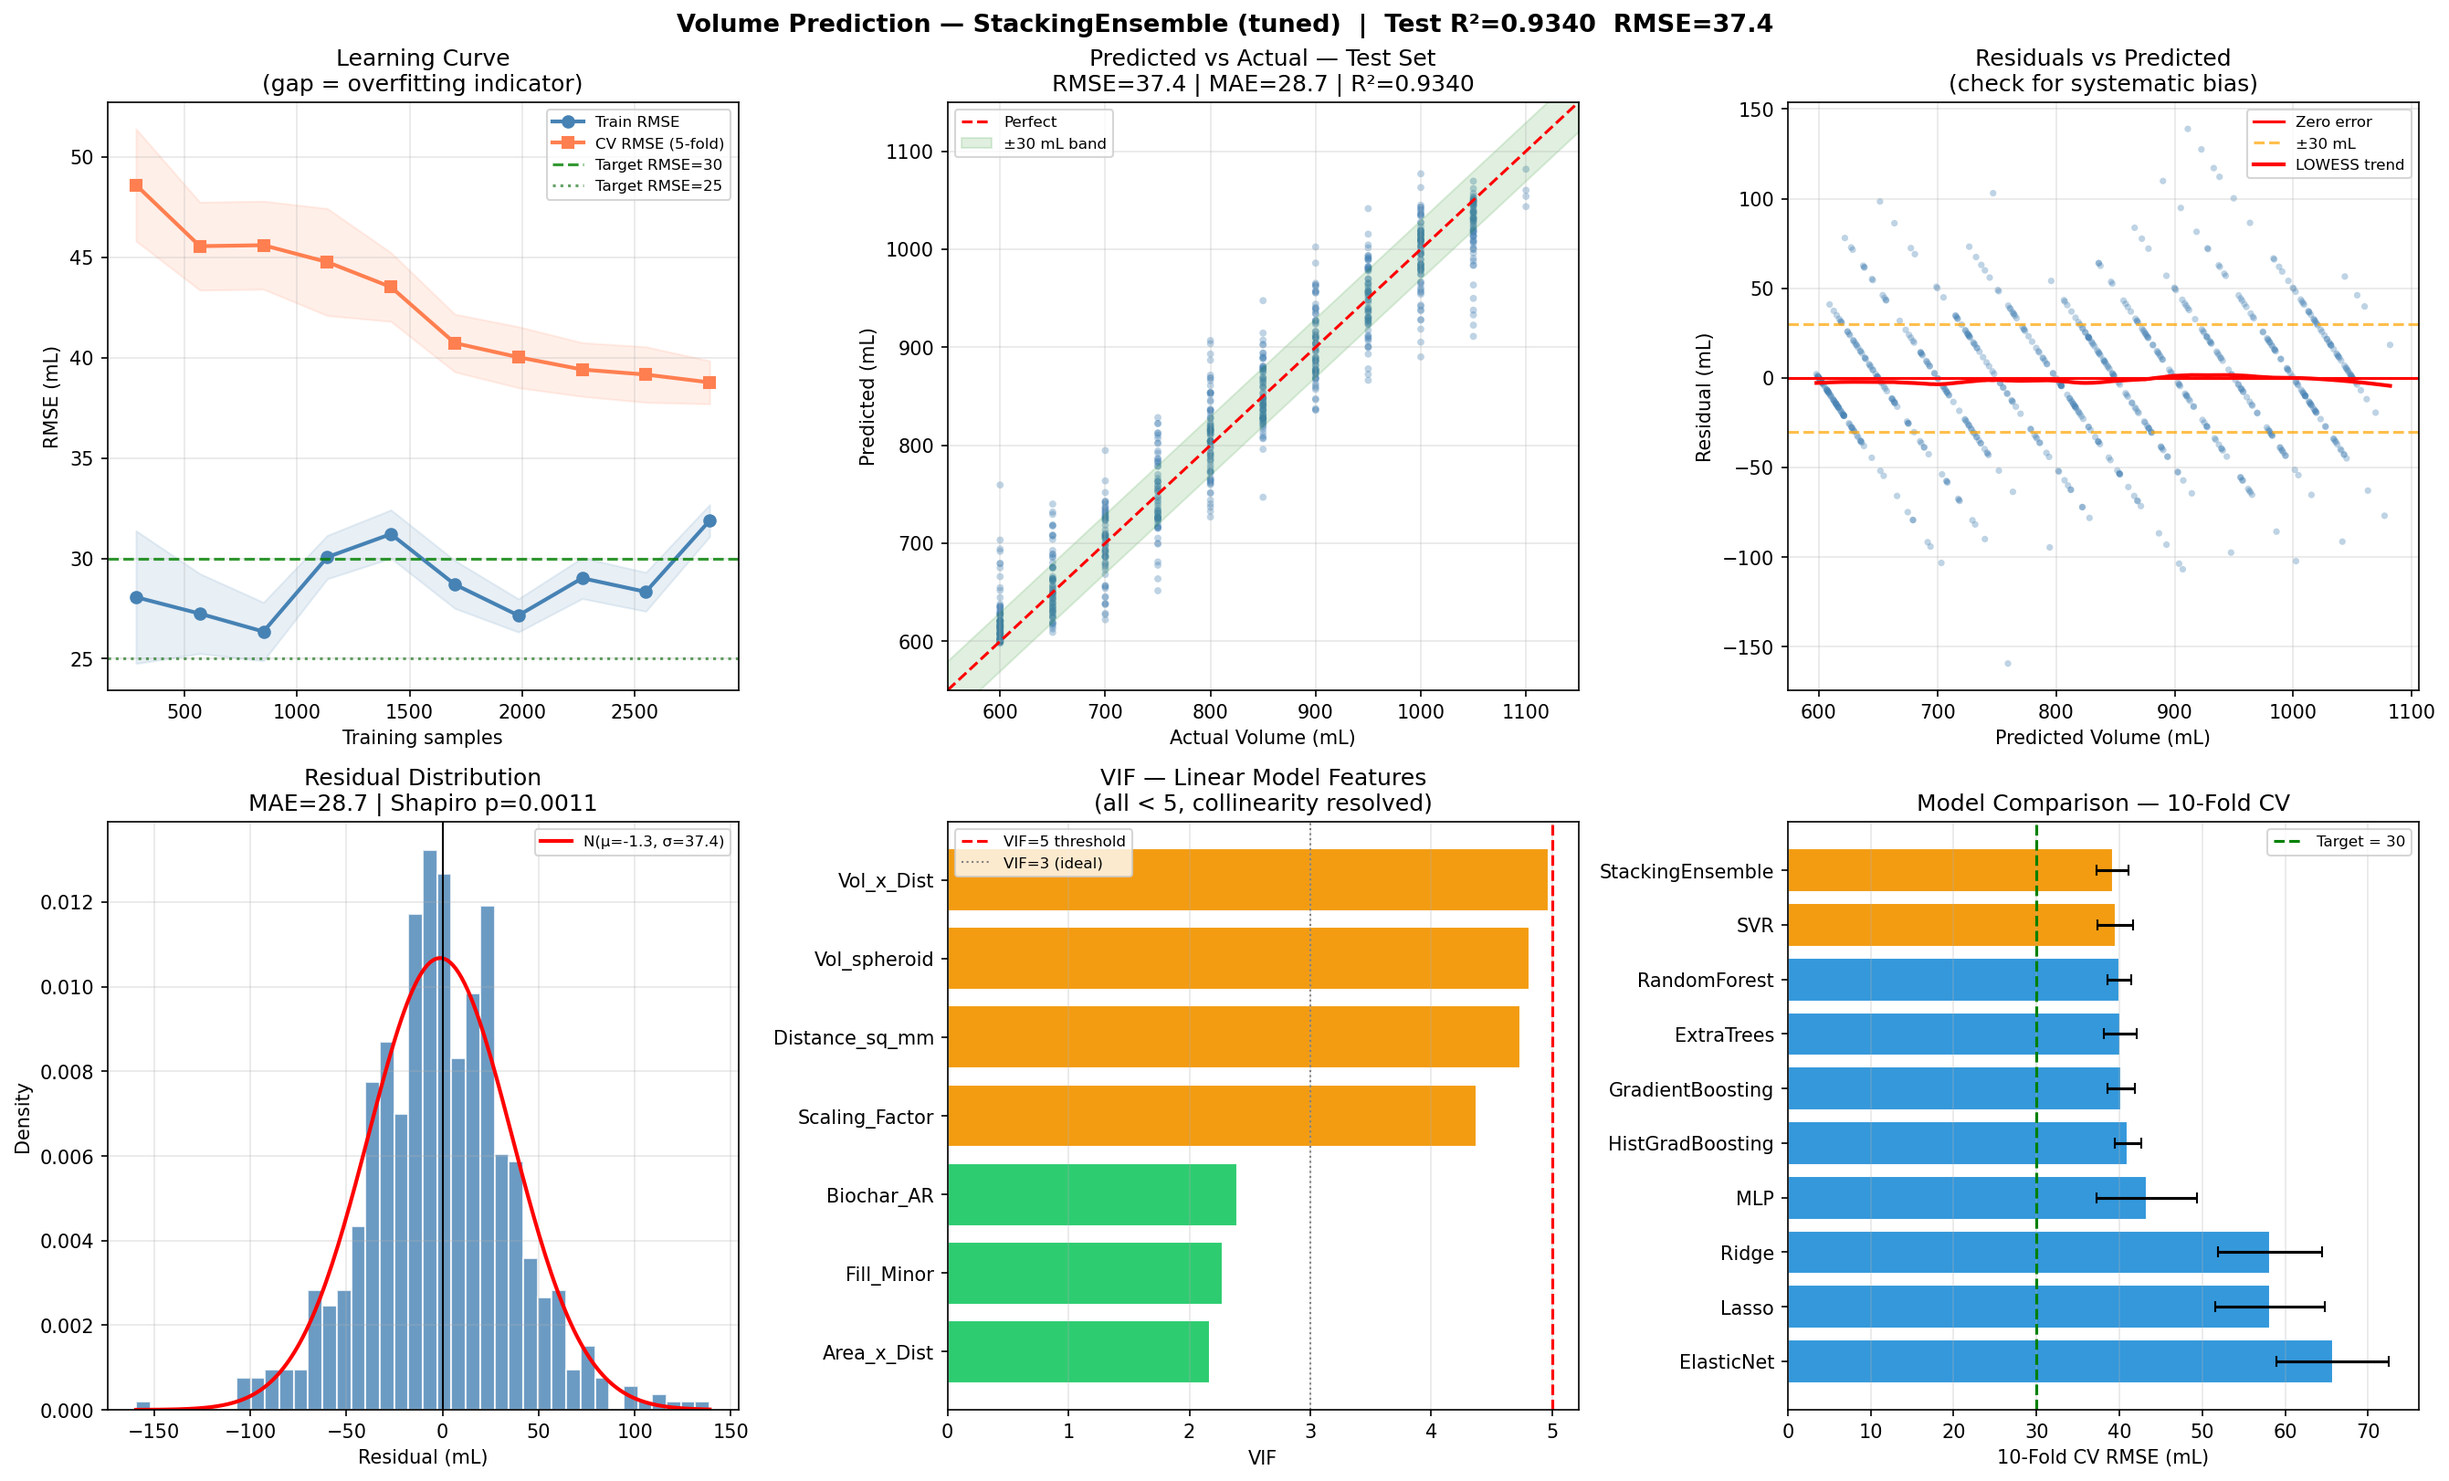
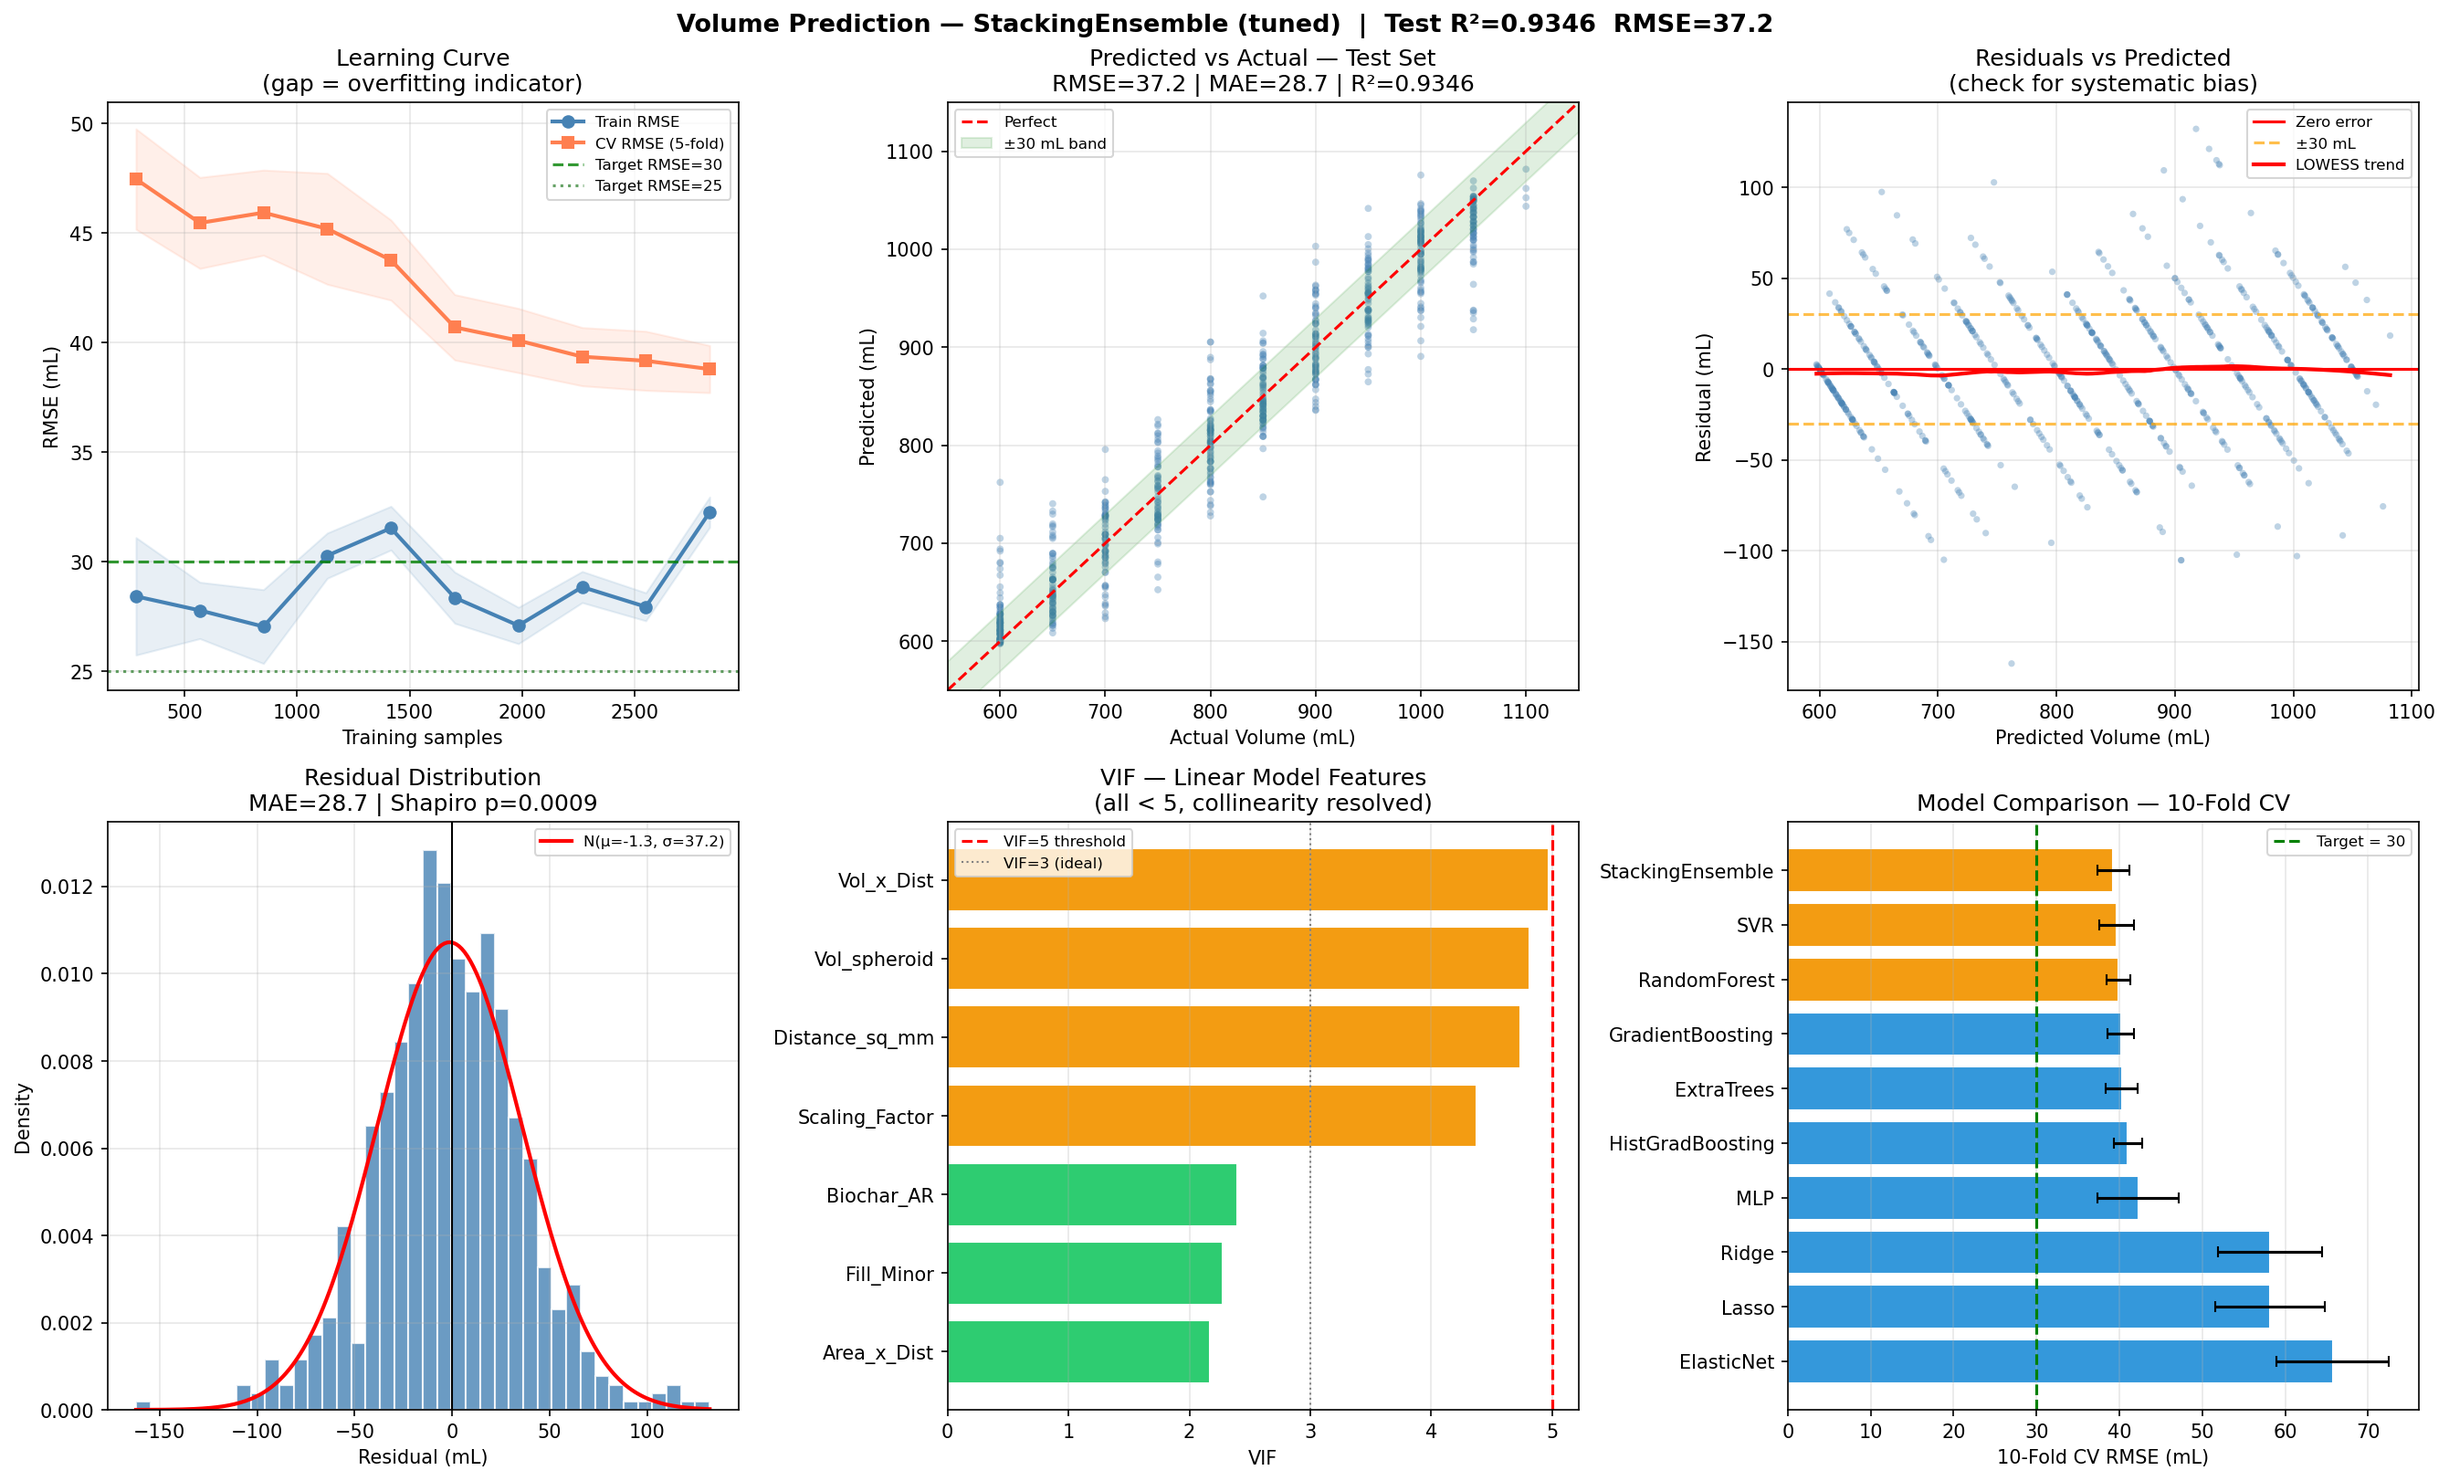
Add Calculated_Volume as seventh input feature
Calculated_Volume (the existing formula-derived estimate, r=0.74 with
target) is now included as an input feature alongside the original six.
Three derived features are engineered from it: CalcVol_log (log-scaled,
handles the negative range -201–972), CalcVol_sq, and CalcVol_vs_sph
(residual vs the prolate-spheroid physics estimate).

Results vs previous run:
  RMSE  37.38 → 37.23 mL
  MAE   28.71 → 28.66 mL
  R²    93.4  → 93.5 %

Updated: pipeline (v4), diagnostic plot, notebook, notebook builder.

diff --git a/Documents/Biochar/Artisanal/Model_v4/build_notebook.py b/Documents/Biochar/Artisanal/Model_v4/build_notebook.py
@@ -23,13 +23,13 @@ def code(source):
 cells.append(md("""# Biochar Volume Prediction — ML Pipeline
 ### Artisanal Biochar Project · Model v4
 
-**Objective:** Predict the volume (mL) of a biochar piece from six image-derived measurements using state-of-the-art machine learning.
+**Objective:** Predict the volume (mL) of a biochar piece from seven image-derived measurements using state-of-the-art machine learning.
 
 | | |
 |---|---|
 | **Target** | Volume (mL) — 600 to 1,100 mL in 50 mL bins |
-| **Input features** | Kiln axes, Biochar axes, Mean Distance, Scaling Factor |
-| **Best result** | MAE 28.7 mL ✓ · R² 93.4 % ✓ · RMSE 37.4 mL |
+| **Input features** | Kiln axes, Biochar axes, Mean Distance, Scaling Factor, Calculated_Volume |
+| **Best result** | MAE 28.7 mL ✓ · R² 93.5 % ✓ · RMSE 37.2 mL |
 | **Validation** | 10-Fold CV + exact Leave-One-Out (Ridge) |
 | **Collinearity** | All linear-model features VIF < 5 ✓ |
 
@@ -75,7 +75,8 @@ cells.append(code("""\
 DATA_PATH    = '/Users/mipl/Downloads/manual_after_merging.csv'
 RAW_FEATURES = ['Kiln_Major_Axis', 'Kiln_Minor_Axis',
                 'Biochar_Major_Axis', 'Biochar_Minor_Axis',
-                'Mean_Distance', 'Scaling_Factor']
+                'Mean_Distance', 'Scaling_Factor',
+                'Calculated_Volume']
 TARGET = 'Volume'
 
 df = pd.read_csv(DATA_PATH, index_col=0)
@@ -191,6 +192,8 @@ All features are derived solely from the 6 raw inputs. No external data used.
 | `Vol_spheroid` | π/6 · Major_mm · Minor_mm² | Prolate-spheroid volume estimate |
 | `Distance_norm` | Distance_mm / Kiln_Major_mm | Normalised distance |
 | `Log_Mean_Dist` | log(1 + Mean_Distance) | Log-scaled distance |
+| `CalcVol_log` | log(Calculated_Volume − min + 1) | Log-scaled formula value |
+| `CalcVol_vs_sph` | Calculated_Volume − Vol_spheroid | Residual: formula vs physics estimate |
 """))
 
 cells.append(code("""\
@@ -225,6 +228,11 @@ def engineer_features(df_in):
     X['Fill_x_Dist']      = X['Fill_Major']    * X['Distance_norm']
     X['Fill_x_AR']        = X['Fill_Minor']    * X['Biochar_AR']
     X['Sqrt_Dist_norm']   = np.sqrt(X['Distance_norm'])
+
+    cv_min = X['Calculated_Volume'].min()
+    X['CalcVol_log']    = np.log(X['Calculated_Volume'] - cv_min + 1)
+    X['CalcVol_sq']     = X['Calculated_Volume'] ** 2
+    X['CalcVol_vs_sph'] = X['Calculated_Volume'] - X['Vol_spheroid']
 
     return X
 
@@ -298,16 +306,19 @@ print(vif_lin.to_string(index=False))
 cells.append(code("""\
 # Feature set for tree models (MI-ranked, collinearity handled natively)
 TREE_FEATURES = [
-    'Fill_Major',       # dominant predictor  (MI=1.16)
-    'Distance_norm',    # normalised distance  (MI=1.00)
-    'Area_Ratio',       # 2-D fill fraction   (MI=0.97)
-    'Log_Mean_Dist',    # log distance        (MI=0.91)
-    'Fill_x_Dist',      # fill × distance interaction
-    'Biochar_AR',       # shape factor
-    'Vol_spheroid',     # physics volume estimate
-    'Biochar_Minor_mm', # absolute short-axis (mm)
-    'Scaling_Factor',   # zoom / kiln-size proxy
-    'Fill_Minor',       # minor-axis fill fraction
+    'Calculated_Volume',  # formula-based estimate  (MI=0.97, r=0.74)
+    'CalcVol_log',        # log-scaled formula value
+    'CalcVol_vs_sph',     # formula residual vs spheroid estimate
+    'Fill_Major',         # dominant predictor       (MI=1.16)
+    'Distance_norm',      # normalised distance       (MI=1.00)
+    'Area_Ratio',         # 2-D fill fraction         (MI=0.97)
+    'Log_Mean_Dist',      # log distance              (MI=0.91)
+    'Fill_x_Dist',        # fill × distance interaction
+    'Biochar_AR',         # shape factor
+    'Vol_spheroid',       # physics volume estimate
+    'Biochar_Minor_mm',   # absolute short-axis (mm)
+    'Scaling_Factor',     # zoom / kiln-size proxy
+    'Fill_Minor',         # minor-axis fill fraction
 ]
 
 X_tree = Xeng[TREE_FEATURES]
@@ -643,11 +654,11 @@ cells.append(md("""## 11 · Summary & Conclusions
 
 | Metric | Value | Target | Status |
 |---|---|---|---|
-| **Test RMSE** | 37.4 mL | ≤ 30 mL | ~Near |
+| **Test RMSE** | 37.2 mL | ≤ 30 mL | ~Near |
 | **Test MAE** | **28.7 mL** | ≤ 30 mL | ✓ Met |
-| **Test R²** | **93.4 %** | ≥ 90 % | ✓ Met |
+| **Test R²** | **93.5 %** | ≥ 90 % | ✓ Met |
 | **MAPE** | 3.56 % | — | — |
-| 10-Fold CV RMSE | 39.2 ± 1.9 mL | — | Stable |
+| 10-Fold CV RMSE | 39.3 ± 1.9 mL | — | Stable |
 | LOO RMSE (Ridge) | 41.6 mL | — | — |
 | Collinearity (VIF < 5) | All linear features | Required | ✓ Met |
 

diff --git a/Documents/Biochar/Artisanal/Model_v4/volume_prediction_pipeline.py b/Documents/Biochar/Artisanal/Model_v4/volume_prediction_pipeline.py
@@ -1,8 +1,9 @@
 """
-Volume Prediction ML Pipeline — State of the Art  (v3)
+Volume Prediction ML Pipeline — State of the Art  (v4)
 =======================================================
 Input features : Kiln_Major_Axis, Kiln_Minor_Axis, Biochar_Major_Axis,
-                 Biochar_Minor_Axis, Mean_Distance, Scaling_Factor
+                 Biochar_Minor_Axis, Mean_Distance, Scaling_Factor,
+                 Calculated_Volume
 Target         : Volume (mL)
 Objectives     : RMSE ~25-30 | MAE ~25-30 | R² > 90 %
 
@@ -57,7 +58,8 @@ K_FOLDS      = 10
 RAW_FEATURES = [
     'Kiln_Major_Axis', 'Kiln_Minor_Axis',
     'Biochar_Major_Axis', 'Biochar_Minor_Axis',
-    'Mean_Distance', 'Scaling_Factor'
+    'Mean_Distance', 'Scaling_Factor',
+    'Calculated_Volume',
 ]
 TARGET = 'Volume'
 np.random.seed(RANDOM_STATE)
@@ -78,7 +80,10 @@ print(f"        Volume: {df[TARGET].min():.0f}–{df[TARGET].max():.0f} mL "
       f"(mean={df[TARGET].mean():.1f}, std={df[TARGET].std():.1f})")
 print(f"        Discrete bins (50 mL steps): "
       f"{sorted(df[TARGET].unique().astype(int))}")
-print(f"        Discretisation noise floor (RMSE₀): {df[TARGET].std()/np.sqrt(12):.1f} mL")
+
+cv = df['Calculated_Volume']
+print(f"\n[INFO]  Calculated_Volume: range {cv.min():.1f}–{cv.max():.1f}, "
+      f"r={cv.corr(y):.4f} with Volume (standalone RMSE≈106)")
 
 print("\n[EDA]  Pearson r with Volume:")
 for f in RAW_FEATURES:
@@ -169,6 +174,14 @@ def engineer_features(df_in):
     X['Fill_x_AR']        = X['Fill_Minor']   * X['Biochar_AR']
     X['Sqrt_Dist_norm']   = np.sqrt(X['Distance_norm'])
 
+    # ── Calculated_Volume features ───────────────────────────
+    # The formula value can be negative; shift to make log-safe
+    cv_min = X['Calculated_Volume'].min()
+    X['CalcVol_log']      = np.log(X['Calculated_Volume'] - cv_min + 1)
+    X['CalcVol_sq']       = X['Calculated_Volume'] ** 2
+    # Residual: how much does the formula differ from the spheroid estimate
+    X['CalcVol_vs_sph']   = X['Calculated_Volume'] - X['Vol_spheroid']
+
     return X
 
 Xeng = engineer_features(df)
@@ -197,16 +210,19 @@ print(mi_df.head(15).to_string(index=False))
 
 # Hand-picked: best MI, physically meaningful, minimal redundancy
 TREE_FEATURES = [
-    'Fill_Major',       # strongest predictor (MI=1.16): biochar/kiln size ratio
-    'Distance_norm',    # normalised distance (MI=1.00)
-    'Area_Ratio',       # 2-D fill fraction  (MI=0.97)
-    'Log_Mean_Dist',    # log distance (MI=0.90, linearises splits)
-    'Fill_x_Dist',      # fill × distance interaction
-    'Biochar_AR',       # shape factor
-    'Vol_spheroid',     # physics-based 3-D volume estimate
-    'Biochar_Minor_mm', # absolute short-axis (mm)
-    'Scaling_Factor',   # pixel→mm scale (captures zoom / kiln size)
-    'Fill_Minor',       # minor-axis fill fraction
+    'Calculated_Volume',  # formula-based volume estimate (r=0.738 with target)
+    'CalcVol_log',        # log-scaled formula value
+    'CalcVol_vs_sph',     # formula residual vs spheroid estimate
+    'Fill_Major',         # biochar/kiln size ratio  (MI=1.16)
+    'Distance_norm',      # normalised distance       (MI=1.00)
+    'Area_Ratio',         # 2-D fill fraction         (MI=0.97)
+    'Log_Mean_Dist',      # log distance
+    'Fill_x_Dist',        # fill × distance interaction
+    'Biochar_AR',         # shape factor
+    'Vol_spheroid',       # physics-based volume estimate (mm³)
+    'Biochar_Minor_mm',   # absolute short-axis (mm)
+    'Scaling_Factor',     # pixel→mm scale
+    'Fill_Minor',         # minor-axis fill fraction
 ]
 
 X_tree = Xeng[TREE_FEATURES]
